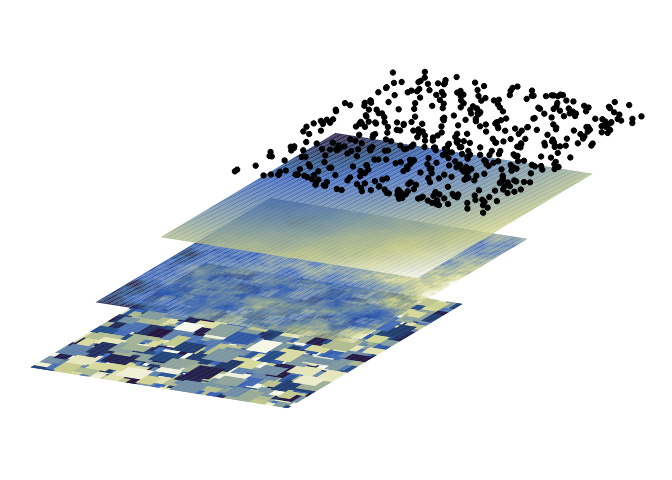
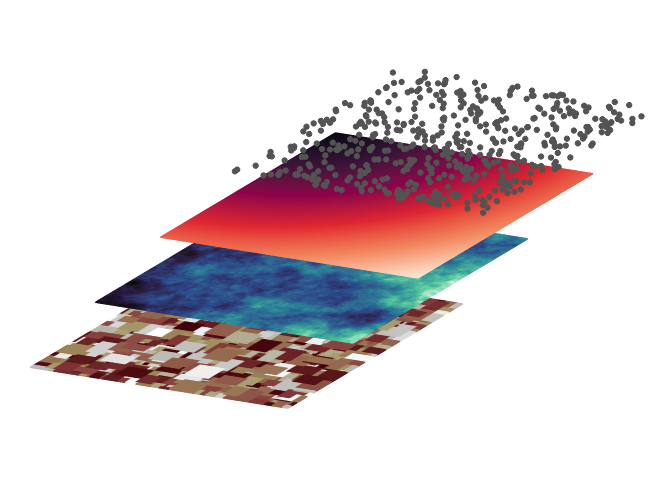
small update

Changed region(s): [[0.0312, 0.125, 0.9688, 0.875]]

diff --git a/README.md b/README.md
@@ -24,14 +24,8 @@ This is a basic example which shows you how to solve a common problem:
 
 ``` r
 library(layer)
-library(ggplot2)
-library(scico)
 
 tilt_landscape_1 <- tilt_map(landscape_1)
-#> Registered S3 methods overwritten by 'stars':
-#>   method             from
-#>   st_bbox.SpatRaster sf  
-#>   st_crs.SpatRaster  sf
 #> Loading required package: raster
 #> Loading required package: sp
 tilt_landscape_2 <- tilt_map(landscape_2, x_shift = 50, y_shift = 50)
@@ -40,7 +34,9 @@ tilt_landscape_points <- tilt_map(landscape_points, x_shift = 150, y_shift = 150
 
 map_list <- list(tilt_landscape_1, tilt_landscape_2, tilt_landscape_3, tilt_landscape_points)
 
-plot_tiltedmaps(map_list, c("layer", "layer", "layer", NA))
+plot_tiltedmaps(map_list, 
+                c("layer", "layer", "layer", NA), 
+                palette = c("bilbao", "mako", "rocket", "grey40"))
 ```
 
 <img src="man/figures/README-example-1.png" width="100%" />
